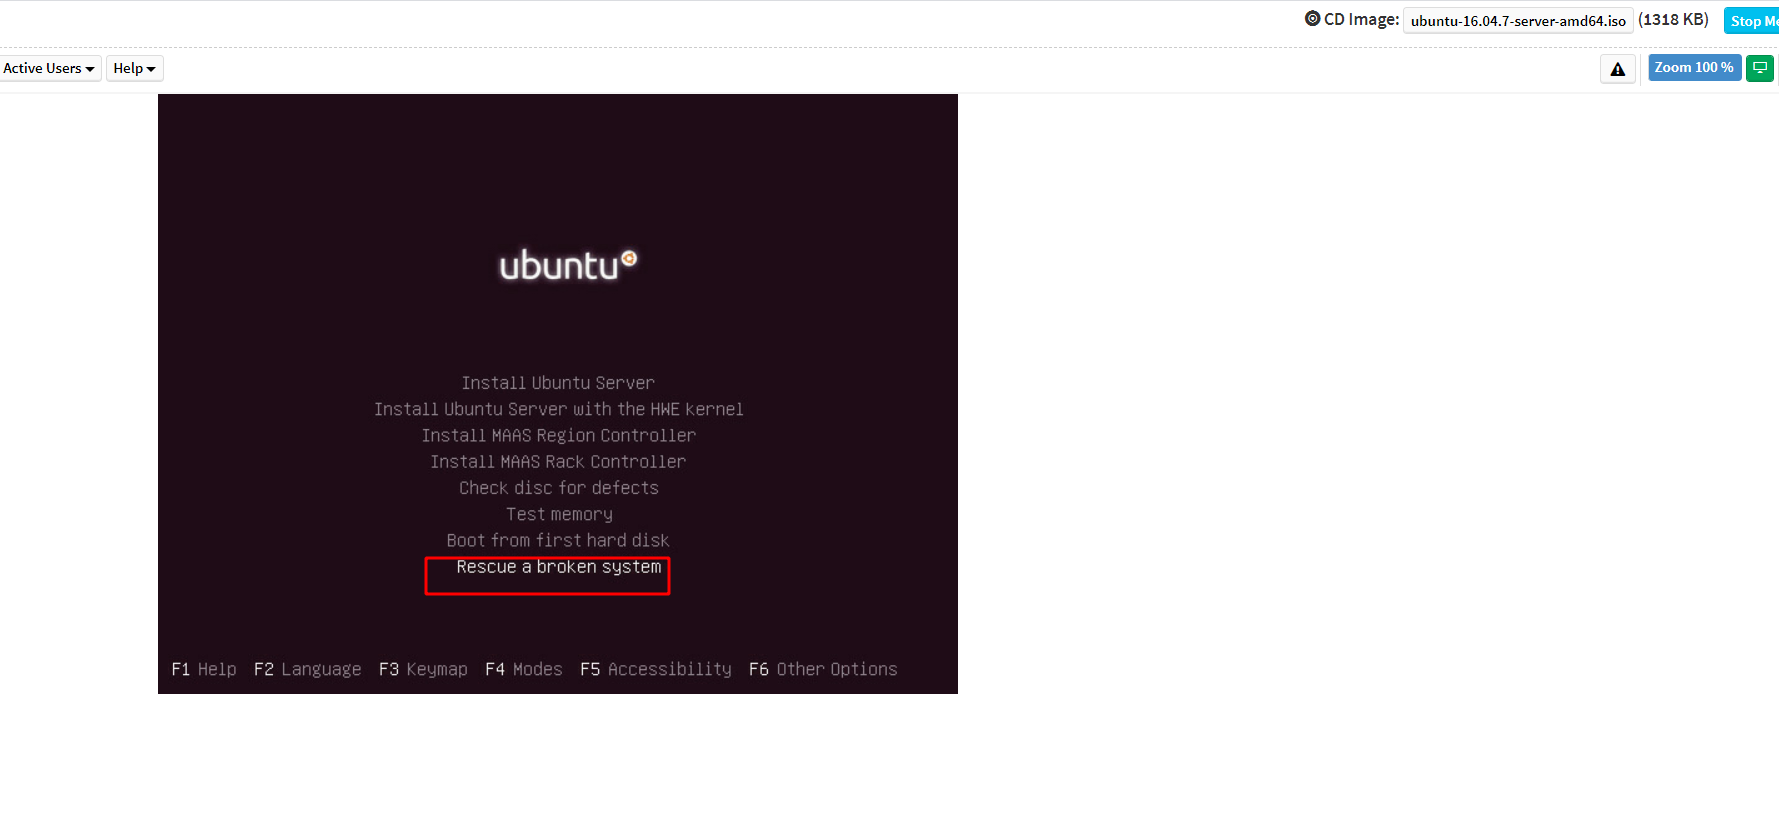
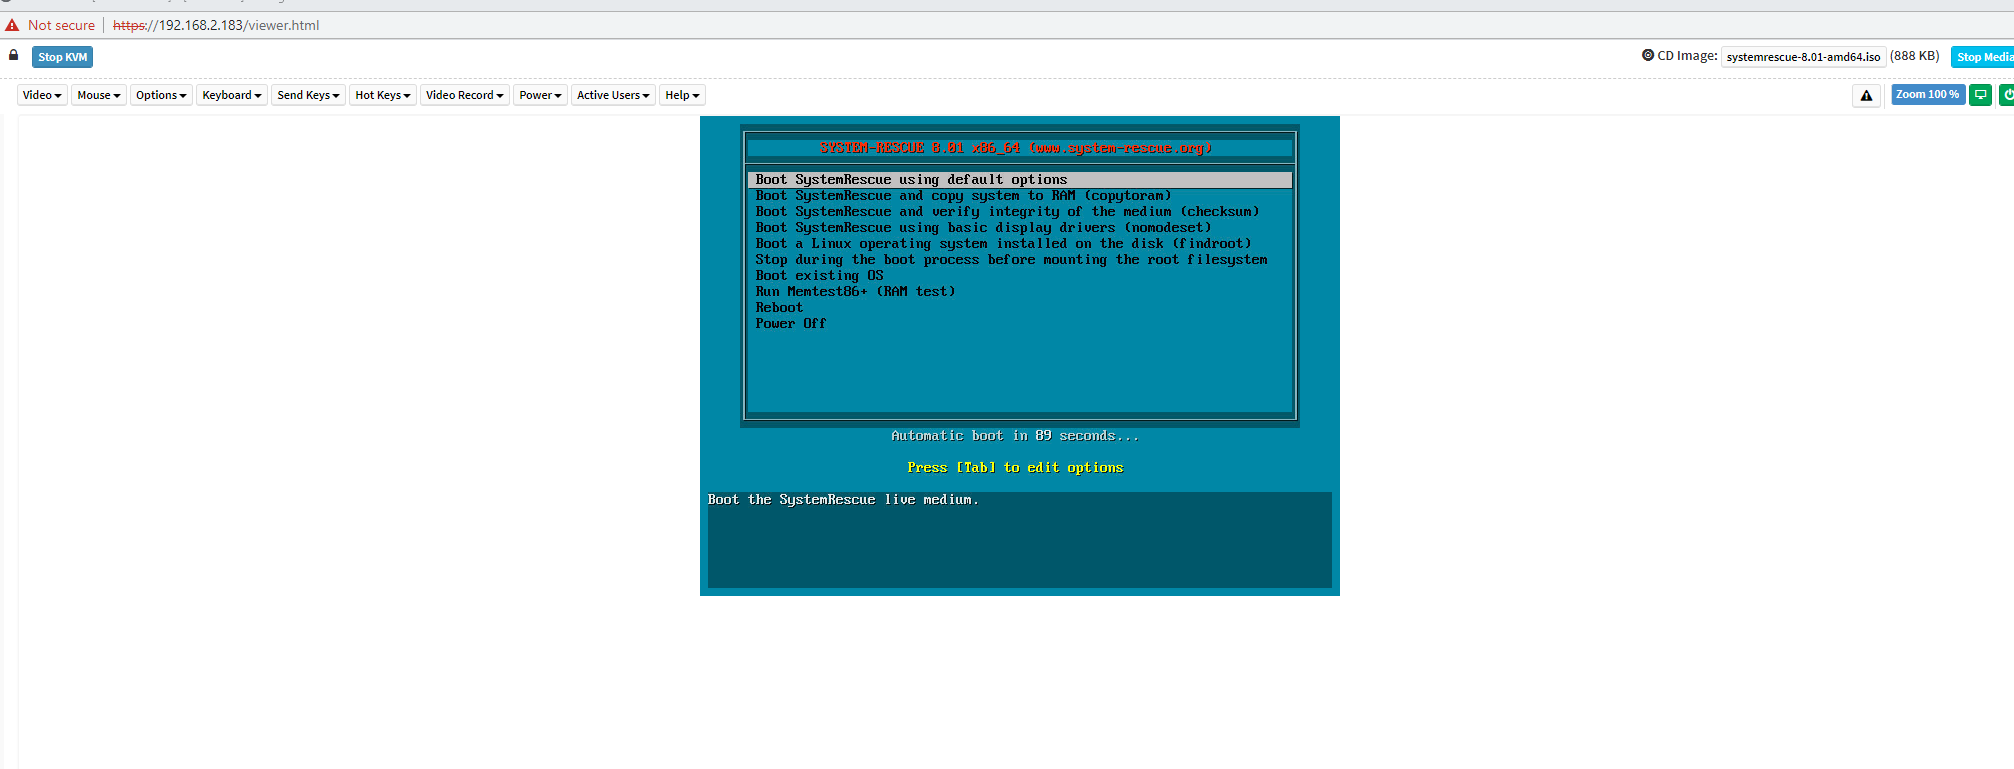
GitBook: [fmadio100g-gen2] 2 pages and 4 assets modified

diff --git a/system-recovery.md b/system-recovery.md
@@ -8,7 +8,7 @@ Start by going to the BMC interface \(default IP is 192.168.0.93\) contact us fo
 
 Start the Remote HTML KVM
 
-![](.gitbook/assets/image%20%287%29.png)
+![](.gitbook/assets/image%20%288%29.png)
 
 Will look like this. Select Brose Files, selecting an ISO image + Start the Media
 
@@ -16,9 +16,27 @@ Will look like this. Select Brose Files, selecting an ISO image + Start the Medi
 
 
 
-System will boot Ubuntu \(for example\), we are using \( ubuntu-16.04.7-server-amd64 \)
+System will boot Ubuntu \(for example\), we are using \( systemrescue 8.01 amd64\)
+
+[https://sourceforge.net/projects/systemrescuecd/files/sysresccd-x86/8.01/systemrescue-8.01-amd64.iso/download](https://sourceforge.net/projects/systemrescuecd/files/sysresccd-x86/8.01/systemrescue-8.01-amd64.iso/download)
 
 ![](.gitbook/assets/image%20%286%29.png)
+
+System will boot as follows, it may take several minutes depending on the speed of the HTML &lt;-&gt; FMADIO System connection. Recommend the closer the HTML instance is to the FMAD device the better.
+
+
+
+
+
+
+
+
+
+
+
+
+
+
 
 
 

diff --git a/hardware.md b/hardware.md
@@ -14,7 +14,7 @@ Spec sheet as follows
 
 
 
-![FMADIO 100G Gen2 Specsheet](.gitbook/assets/image%20%288%29.png)
+![FMADIO 100G Gen2 Specsheet](.gitbook/assets/image%20%289%29.png)
 
 
 
